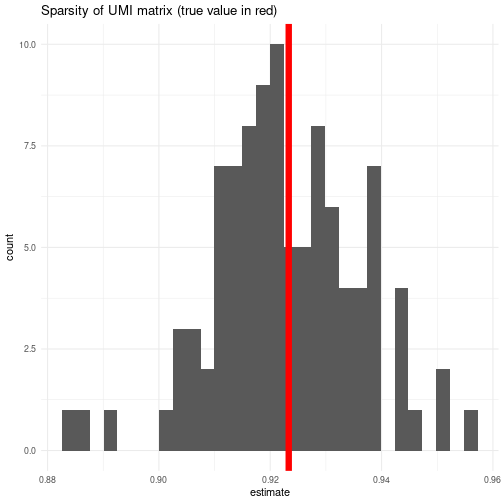
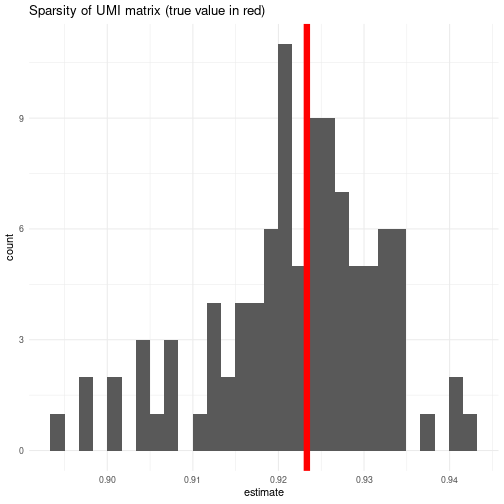
Clarify tidySCE section

diff --git a/vignettes/project2_chunks/project2_tim.md b/vignettes/project2_chunks/project2_tim.md
@@ -33,7 +33,8 @@ i.e., the ability to classify a cell confidently.  For that, we need cutoffs.
 With the release of Bioconductor 3.14, the project includes a tidy single cell 
 experiment (data structure) package, which is great since all other single cell 
 data structures kind of suck. (No, seriously, you'll find out why eventually.) 
-The package is, not coincidentally, called [tidySingleCellExperiment](http://www.bioconductor.org/packages/release/bioc/vignettes/tidySingleCellExperiment/inst/doc/introduction.html):
+The package is, not coincidentally, called [tidySingleCellExperiment](http://www.bioconductor.org/packages/release/bioc/vignettes/tidySingleCellExperiment/inst/doc/introduction.html). The linked instructions are helpful; read them when you
+have a chance. Meanwhile, let's make sure we can load it in this analysis. 
 
 <details>
   <summary>Make sure necessary packages are installed</summary>
@@ -182,7 +183,7 @@ as_tibble(tidybarnyard) %>%           # "turn the colData into a tibble"
 
 # your cell:
 show(aCell) 
-#> [1] "Mixture2.inDrops.GTGCCCAT-AGAATGCG-CGTATCGG"
+#> [1] "Mixture2.inDrops.CAAGGAAT-AAGAGCGT-TAAGACGG"
 
 # does that mean we can ask for a random gene with certain attributes?
 as_tibble(rowData(tidybarnyard)) %>%  # "turn the rowData into a tibble"
@@ -192,7 +193,7 @@ as_tibble(rowData(tidybarnyard)) %>%  # "turn the rowData into a tibble"
 
 # your gene:
 show(aGene) 
-#> [1] "mm10_ENSMUSG00000107705_mm10_Umad1"
+#> [1] "mm10_ENSMUSG00000000881_mm10_Dlg3"
 
 # how many copies of this random gene were found in this random cell? 
 counts(tidybarnyard)[aGene, aCell] 
@@ -222,7 +223,7 @@ samples <- (length(aHundredCells) * length(aHundredGenes))
 nonzero <- nnzero(counts(tidybarnyard)[aHundredGenes, aHundredCells])
 sparsity_hat <- (samples - nonzero) / samples 
 sparsity_hat # estimated sparsity
-#> [1] 0.9112
+#> [1] 0.932
 
 # In fact, we can use this scheme to look at sampling error:
 sample_sparsity <- function(object, cells=100, genes=100) { 
@@ -585,7 +586,7 @@ mfit <- Mclust(logit(barnyardtibble[, c("fracmouse","frachuman")]),
 table(mfit$classification) # it turns out that we end up with less human cells
 #> 
 #>    1    2    3 
-#> 1941  142 2116
+#>  142 2116 1941
 barnyardtibble$mclass <- factor(mfit$classification)
 
 # plot the results
